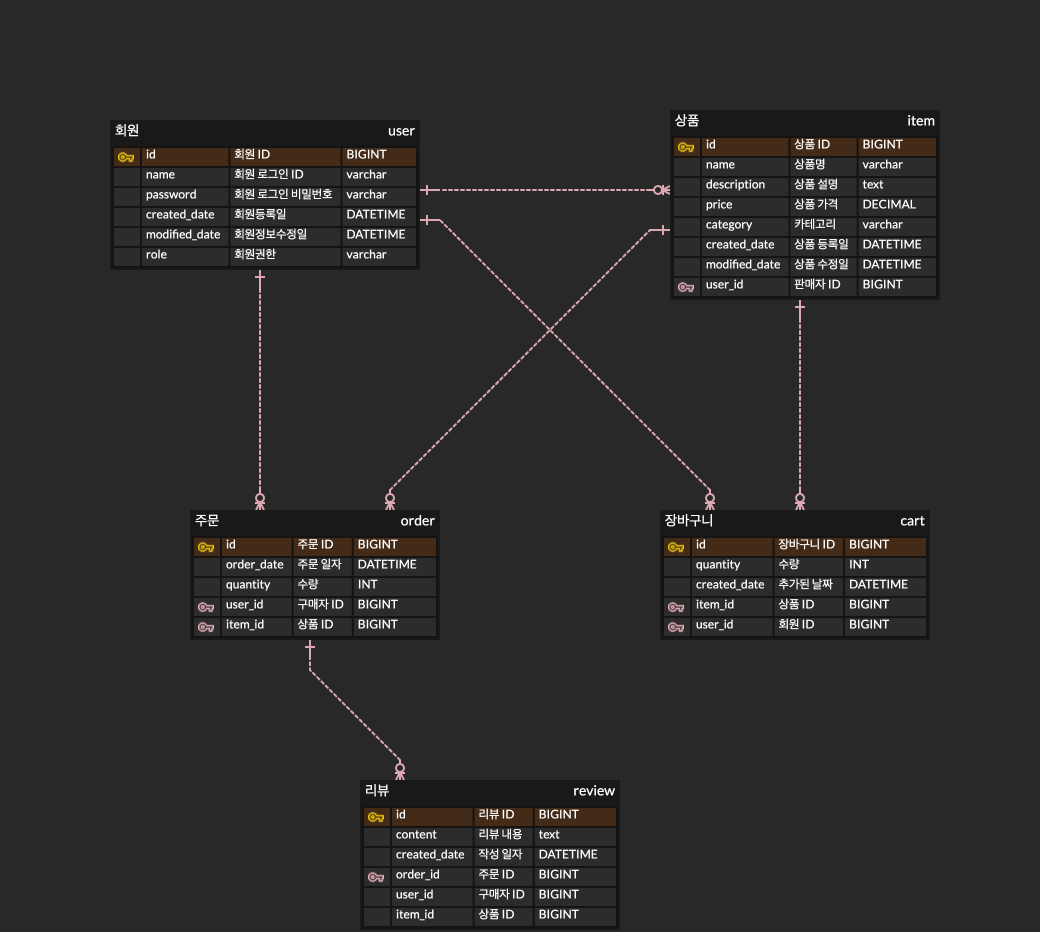
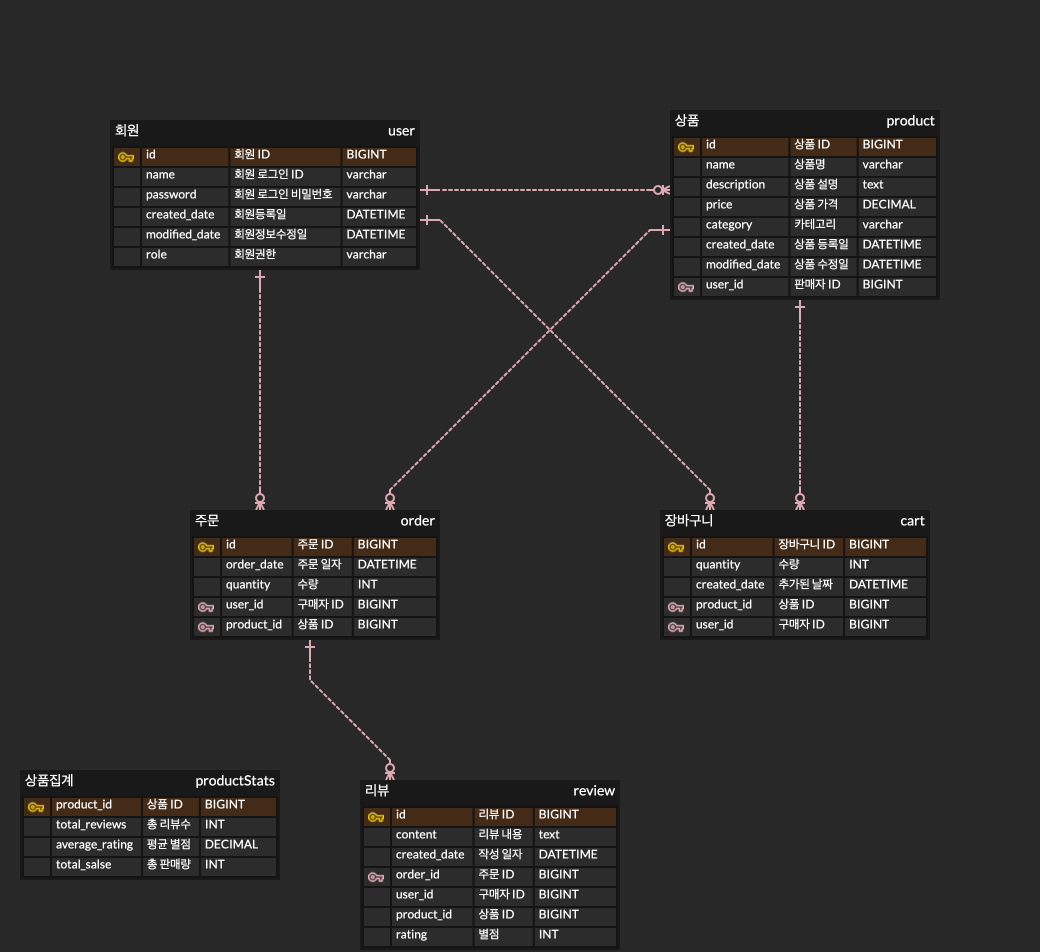
docs: update ERD and README.md
- added product order functionality details
- Rename 'item' to 'product'
- added productStats table in ERD

diff --git a/README.md b/README.md
@@ -18,6 +18,8 @@
   - 로그인을 하지 않은 사용자를 포함한 모든 사용자는 상품을 조회할 수 있다.
   - 상품은 카테고리별로 나뉘며 각 카테고리 안에 상품들은 최신순으로 기본 정렬된다.
   - 정렬 기능으로는 리뷰 많은순, 판매 많은순, 높은 가격순, 낮은 가격순이 있다.
+  - 리뷰 수, 판매량, 별점 평균의 집계 정보들은 스케줄링을 사용해 매시간마다 업데이트를 한다.
+  - 해당 정보를 가지고 있는 db는 Redis를 사용해 처리한다.
   - 상품 목록 조회시 응답에는 상품 이름, 판매자, 상품 가격, 리뷰 수, 평균 별점의 정보가 필요하다.
   - 상품이 많을 수 있으므로 paging 처리를 한다.
 - 특정 상품 조회 기능
@@ -34,6 +36,10 @@
 - 리뷰 작성 기능
   - 로그인하고 해당 상품을 구매한 이력이 있는 사용자는 댓글을 작성할 수 있다.
   - 사용자는 댓글 내용을 작성할 수 있다.
+- 상품 주문 기능
+  - 로그인을 한 사용자 중 BUYER 권한을 지닌 사용자는 특정 상품을 조회한 후 상품을 단일 주문하거나 장바구니로 상품을 이동한 후에 장바구니에서 주문을 할 수 있다.
+  - 장바구니에 담겨진 상품을 주문시 장바구니 db에서 주문 db로 정보들을 전송하고 장바구니에 있는 데이터는 삭제된다.
+  - 장바구니에서 주문을 진행할 때 트랜잭션을 걸어 오류가 발생했을 때(제품이 삭제되거나, 가격에 변동이 있는 경우) 롤백이 가능하게 만든다.
 
 ## ERD
 ![erd](doc/img/Commerce.png)
